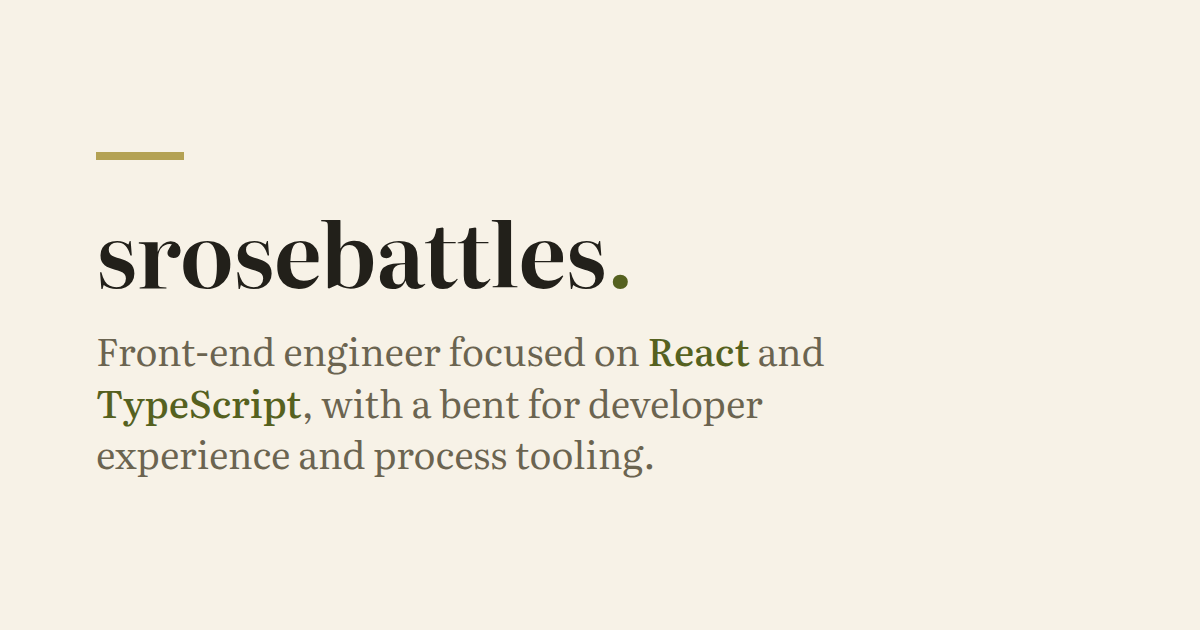
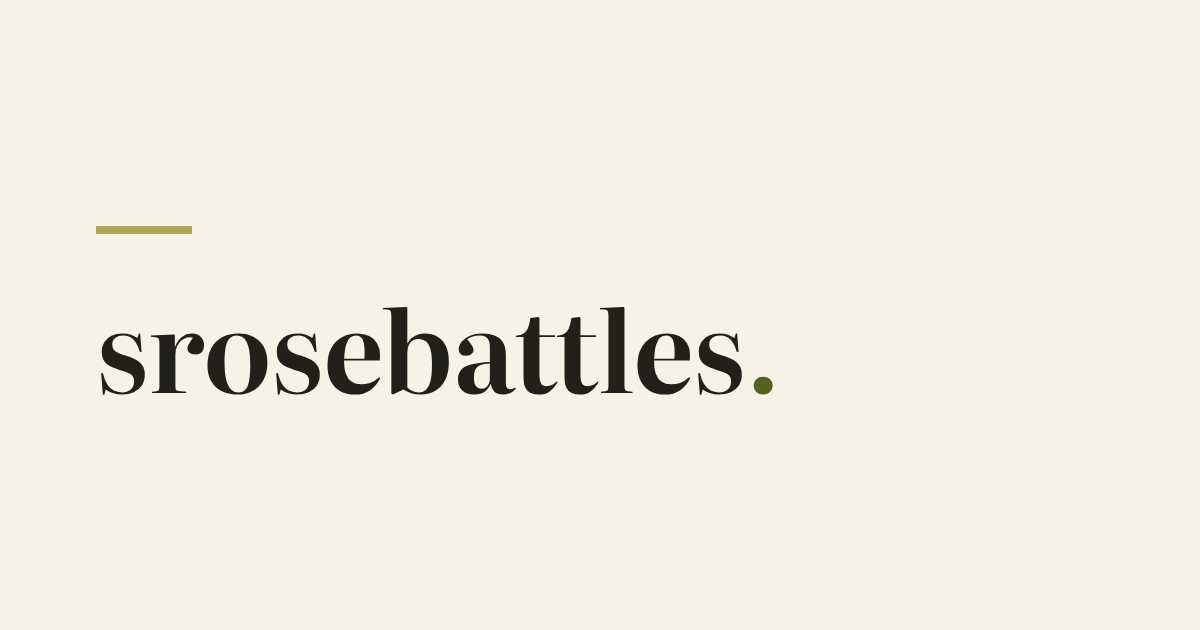
Remove the tagline from the Open Graph card
The card is now the wordmark alone, so it makes no claims that haven't
been written yet; re-render it once the real tagline is settled. Shared
og:image:alt updated on every page to match.

Claude-Session: https://claude.ai/code/session_01L5kRFEs3T8qjNVdxHogou8

Changed region(s): [[0.0617, 0.4825, 0.7092, 0.754], [0.0617, 0.3317, 0.5242, 0.4825], [0.0617, 0.2413, 0.1542, 0.2714]]

diff --git a/colophon/index.html b/colophon/index.html
@@ -20,7 +20,7 @@
   <meta property="og:image" content="https://srosebattles.github.io/text-first-portfolio-site/assets/og.png">
   <meta property="og:image:width" content="1200">
   <meta property="og:image:height" content="630">
-  <meta property="og:image:alt" content="Text on warm paper: srosebattles, front-end engineer.">
+  <meta property="og:image:alt" content="Text on warm paper: srosebattles.">
   <meta name="twitter:card" content="summary_large_image">
   <meta name="twitter:title" content="Colophon — srosebattles">
   <meta name="twitter:description" content="How this site is made: no framework, no build step, typed-but-never-compiled JavaScript, self-hosted Literata, and analytics that don't follow you around.">

diff --git a/index.html b/index.html
@@ -22,7 +22,7 @@
   <meta property="og:image" content="https://srosebattles.github.io/text-first-portfolio-site/assets/og.png">
   <meta property="og:image:width" content="1200">
   <meta property="og:image:height" content="630">
-  <meta property="og:image:alt" content="Text on warm paper: srosebattles, front-end engineer.">
+  <meta property="og:image:alt" content="Text on warm paper: srosebattles.">
   <meta name="twitter:card" content="summary_large_image">
   <meta name="twitter:title" content="srosebattles — front-end engineer">
   <meta name="twitter:description" content="Front-end engineer focused on React and TypeScript, with a bent for developer experience and process tooling.">

diff --git a/work/jira-refinement-tool/index.html b/work/jira-refinement-tool/index.html
@@ -20,7 +20,7 @@
   <meta property="og:image" content="https://srosebattles.github.io/text-first-portfolio-site/assets/og.png">
   <meta property="og:image:width" content="1200">
   <meta property="og:image:height" content="630">
-  <meta property="og:image:alt" content="Text on warm paper: srosebattles, front-end engineer.">
+  <meta property="og:image:alt" content="Text on warm paper: srosebattles.">
   <meta name="twitter:card" content="summary_large_image">
   <meta name="twitter:title" content="Jira refinement tool — srosebattles">
   <meta name="twitter:description" content="Case study: an internal tool that takes the friction out of backlog refinement.">

diff --git a/work/llm-game-scaffolds/index.html b/work/llm-game-scaffolds/index.html
@@ -20,7 +20,7 @@
   <meta property="og:image" content="https://srosebattles.github.io/text-first-portfolio-site/assets/og.png">
   <meta property="og:image:width" content="1200">
   <meta property="og:image:height" content="630">
-  <meta property="og:image:alt" content="Text on warm paper: srosebattles, front-end engineer.">
+  <meta property="og:image:alt" content="Text on warm paper: srosebattles.">
   <meta name="twitter:card" content="summary_large_image">
   <meta name="twitter:title" content="LLM game scaffolds — srosebattles">
   <meta name="twitter:description" content="Case study: scaffolding that lets large language models run structured text games.">

diff --git a/work/quoting-clock/index.html b/work/quoting-clock/index.html
@@ -20,7 +20,7 @@
   <meta property="og:image" content="https://srosebattles.github.io/text-first-portfolio-site/assets/og.png">
   <meta property="og:image:width" content="1200">
   <meta property="og:image:height" content="630">
-  <meta property="og:image:alt" content="Text on warm paper: srosebattles, front-end engineer.">
+  <meta property="og:image:alt" content="Text on warm paper: srosebattles.">
   <meta name="twitter:card" content="summary_large_image">
   <meta name="twitter:title" content="Quoting clock — srosebattles">
   <meta name="twitter:description" content="Case study: the literary timepiece in this site's footer — a zero-dependency web component.">